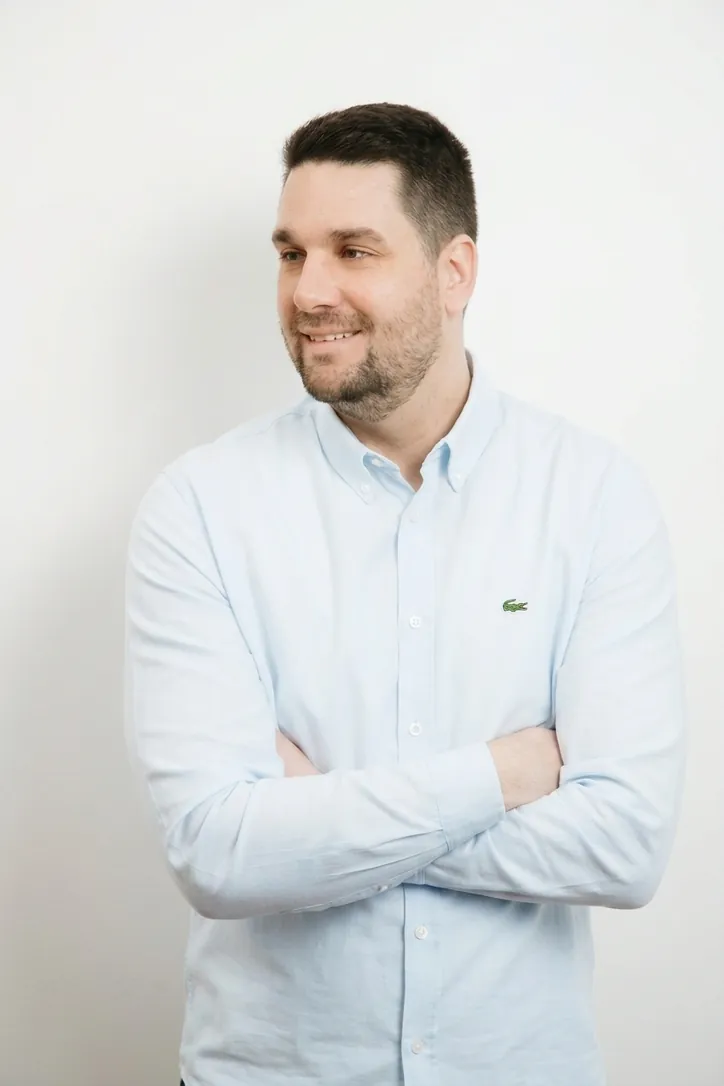
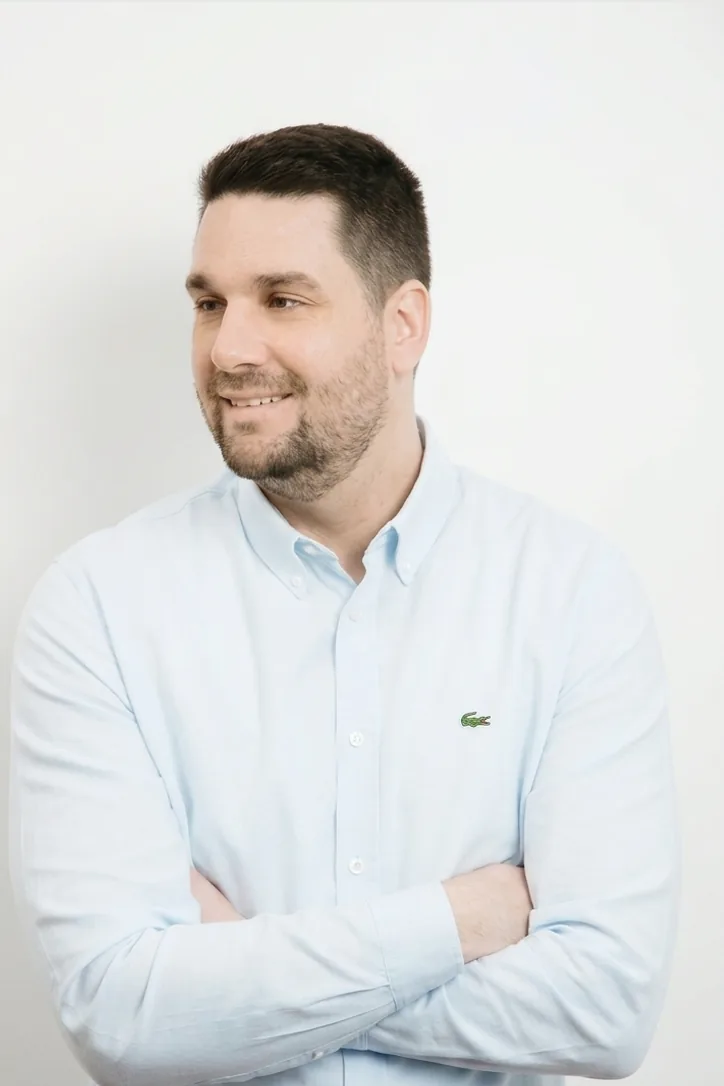
Projects dated 2026; align the three portraits so the head has the same size and position
The second and third photos are rescaled and shifted from the full-resolution originals
so the hover flip no longer looks like a jump closer to or farther from the camera.
Same redness correction as the main portrait.

Claude-Session: https://claude.ai/code/session_0137GWbS2cUQ9nRC8PH2tgcS

diff --git a/src/lib/projects.ts b/src/lib/projects.ts
@@ -53,7 +53,7 @@ export const projects: Project[] = [
     niche: "Sajt za web studio",
     category: "Biznis",
     client: "Badbyte Studio",
-    year: "2024",
+    year: "2026",
     seoDescription:
       "Studija slučaja: sajt za web development studio iz Novog Sada sa jasnom ponudom, cenama, utiscima klijenata i formom za zahtev za ponudu.",
     description:
@@ -81,7 +81,7 @@ export const projects: Project[] = [
     servicePath: "/sajt-za-frizerski-salon",
     category: "Zakazivanje",
     client: "Salon Vojkan",
-    year: "2024",
+    year: "2026",
     seoDescription:
       "Studija slučaja: sajt za ženski frizerski salon u Novom Sadu sa 40 godina tradicije. Cenovnik, galerija i zakazivanje termina porukom.",
     description:
@@ -114,7 +114,7 @@ export const projects: Project[] = [
     servicePath: "/sajt-za-majstore",
     category: "Zakazivanje",
     client: "REMIELECTRIC Novi Sad",
-    year: "2024",
+    year: "2026",
     seoDescription:
       "Studija slučaja: sajt za elektroinstalatere iz Novog Sada sa pregledom usluga, dugmetom za hitan poziv i zakazivanjem besplatnog pregleda.",
     description:
@@ -150,7 +150,7 @@ export const projects: Project[] = [
     niche: "Sajt za prodaju stanova",
     category: "E-commerce",
     client: "Investitor Residence",
-    year: "2024",
+    year: "2026",
     seoDescription:
       "Studija slučaja: prodajni sajt za investitora sa katalogom stanova, cenama, tlocrtima, filterima po strukturi i oznakom slobodnih stanova.",
     description:
@@ -183,7 +183,7 @@ export const projects: Project[] = [
     niche: "Sajt za konsultantsku agenciju",
     category: "Biznis",
     client: "MiSolutions Konsalting",
-    year: "2024",
+    year: "2026",
     seoDescription:
       "Studija slučaja: prezentacioni sajt konsultantske agencije za istraživanje tržišta, sa jasnom ponudom, rezultatima i B2B kontakt formom.",
     description:
